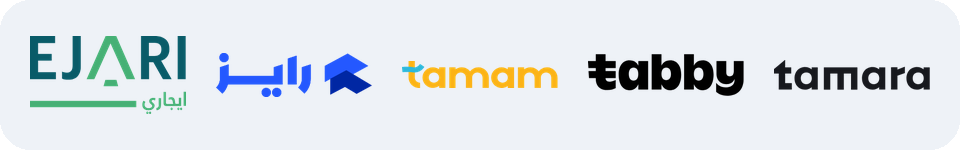
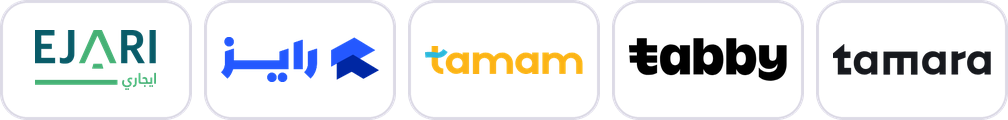
feat(af): the instalment partners sit on 5 equal white chips, same visual size (owner 2026-11-01)
Owner: «highlight the background and make them all the same size». The grey pill and the outer frame
are gone; each logo has its own identical white chip on a transparent PNG (readable in dark mode too),
and every logo is scaled to the same ink area so none looks bigger than the others.

Changed region(s): [[0.0312, 0.225, 1.0, 0.7], [0.0312, 0.6, 0.2188, 0.75]]

diff --git a/src/components/AdvancedQuestionCard.tsx b/src/components/AdvancedQuestionCard.tsx
@@ -178,7 +178,7 @@ export function AdvancedIntroCard({ total, onBegin, onClose, pills }: {
 // static require() calls, which is also why the mapping must live here and not in question config.
 const BRAND_IMAGES: Record<string, ReturnType<typeof require>> = {
   // 5 instalment partners in one strip (owner 2026-11-01): EJARI · رايز · tamam · tabby · tamara.
-  // The PNG carries its own light background so the black wordmarks stay readable in dark mode.
+  // Five equal white chips on a transparent PNG, so the black wordmarks stay readable in dark mode.
   'rnpl-partners': require('../../assets/images/rnpl-partners.png'),
 };
 
@@ -615,13 +615,10 @@ const s = StyleSheet.create({
   unknownNote: { fontFamily: font.family.regular, fontSize: 11.5, color: colors.muted, opacity: 0.85, paddingHorizontal: 2, paddingTop: 3 },
 
   // Shared brand-image slot — one fixed position (under the subtitle, above the options) and one
-  // style for ANY question that names a brandImage token. The PNG carries its own branding; the
-  // strip is a neutral token-only frame.
-  brandStrip: {
-    marginTop: 10, alignItems: 'center', justifyContent: 'center', paddingVertical: 8,
-    backgroundColor: colors.surface, borderWidth: 1, borderColor: colors.fieldLine, borderRadius: radius.field,
-  },
-  brandImg: { width: 300, maxWidth: '100%', height: 47 },
+  // style for ANY question that names a brandImage token. The PNG carries its own chips, so the
+  // strip adds no second frame around them (owner 2026-11-01).
+  brandStrip: { marginTop: 10, alignItems: 'center', justifyContent: 'center' },
+  brandImg: { width: '100%', aspectRatio: 1008 / 120 },
 
   // Options: soft rounded stand-alone rows with breathing room (no dense bordered table) — the
   // Claude-question feel. Selection fills the row with the brand tint + primary border.
